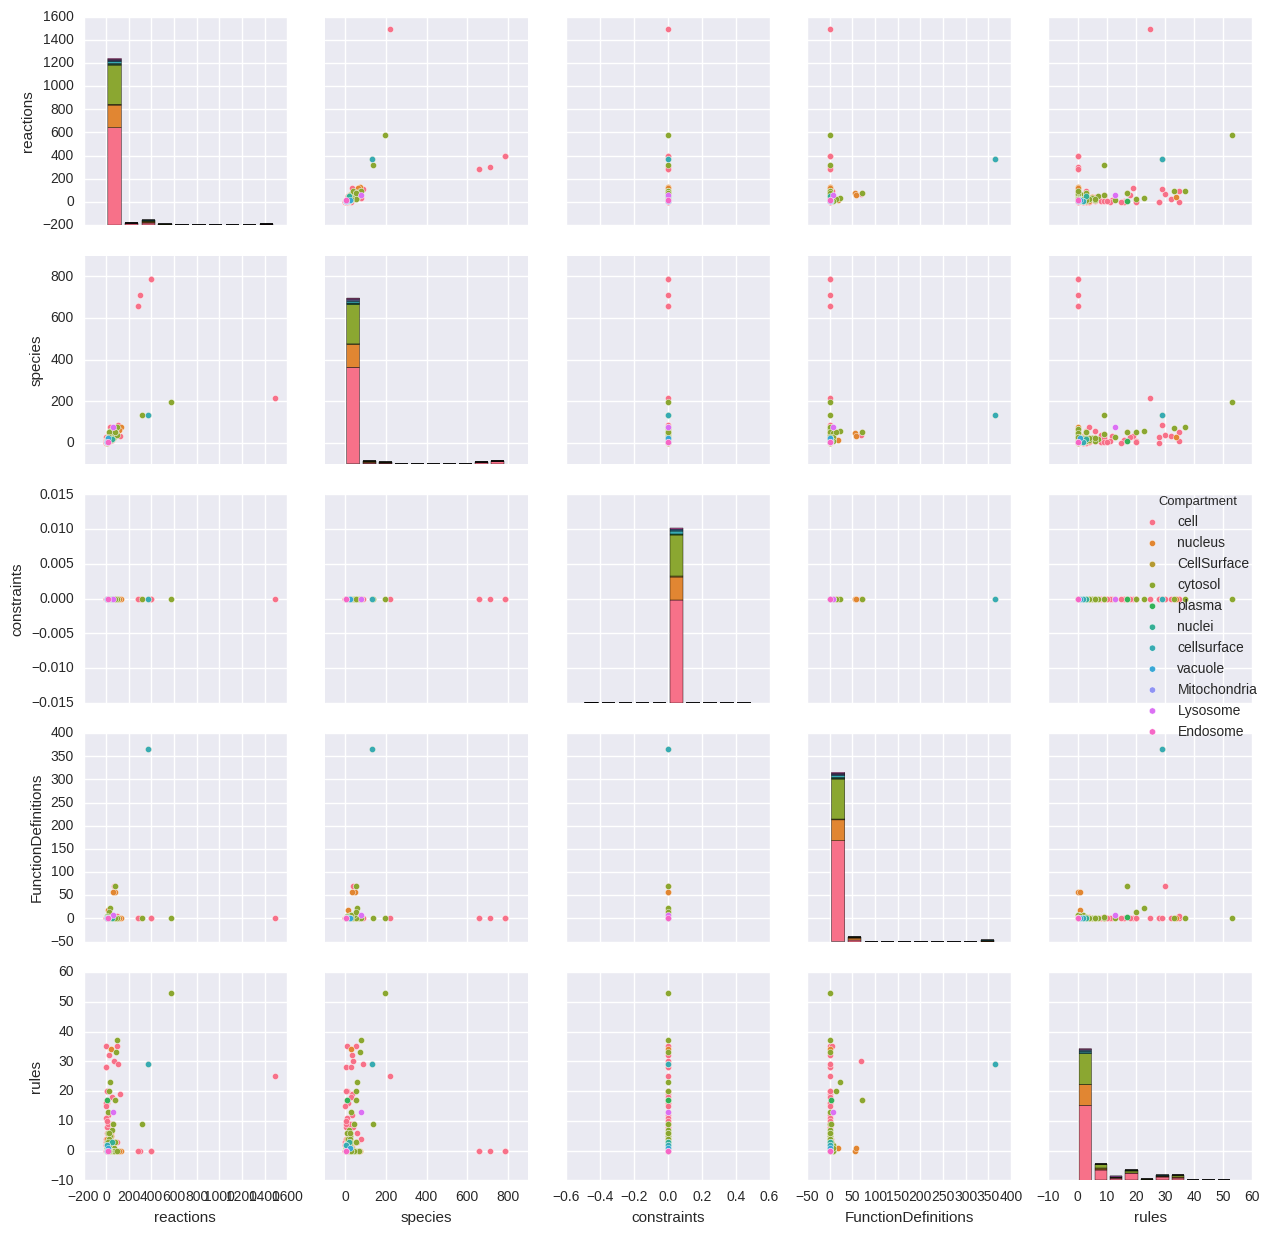
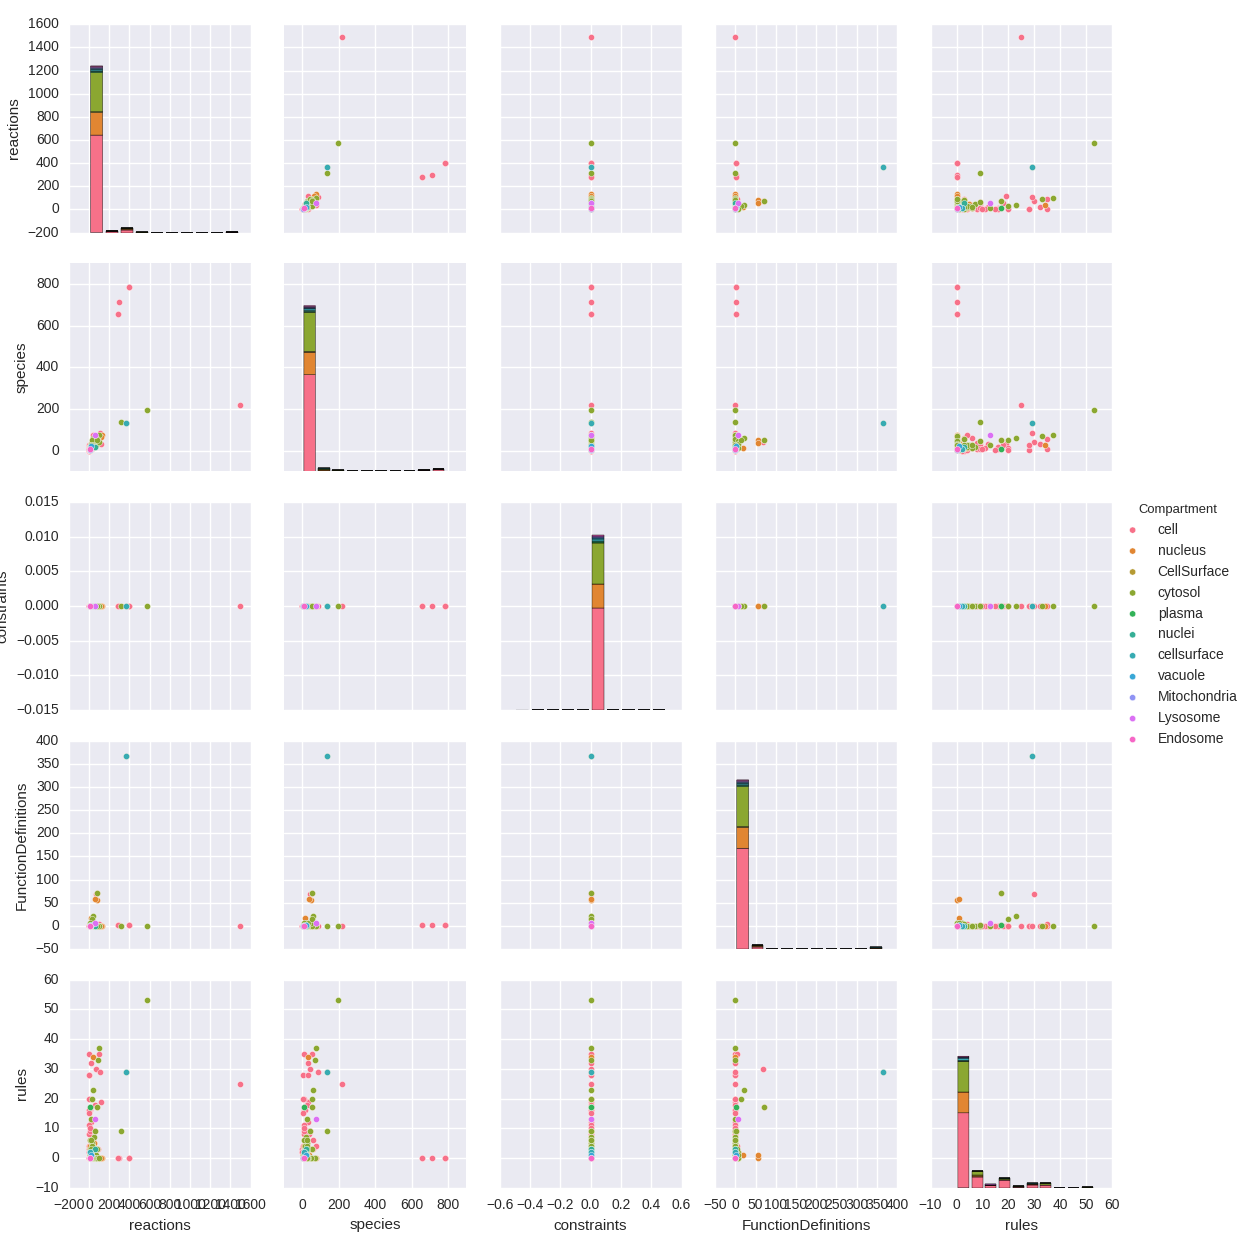
First images

diff --git a/main.py b/main.py
@@ -78,7 +78,8 @@ def get_basic_stats(sbmlfolder,compartment="all"):
 #    print(set(all_compartments))
     print(df.describe()) ## this is to be further plotted
     g = sns.pairplot(df,hue="Compartment",vars=['reactions','species','constraints','FunctionDefinitions','rules'])
-    plt.savefig('images/pairplot.png', bbox_inches='tight')
+    plt.show()
+#    plt.savefig('images/pairplot.png', bbox_inches='tight')
 
 if __name__ == "__main__":
 
